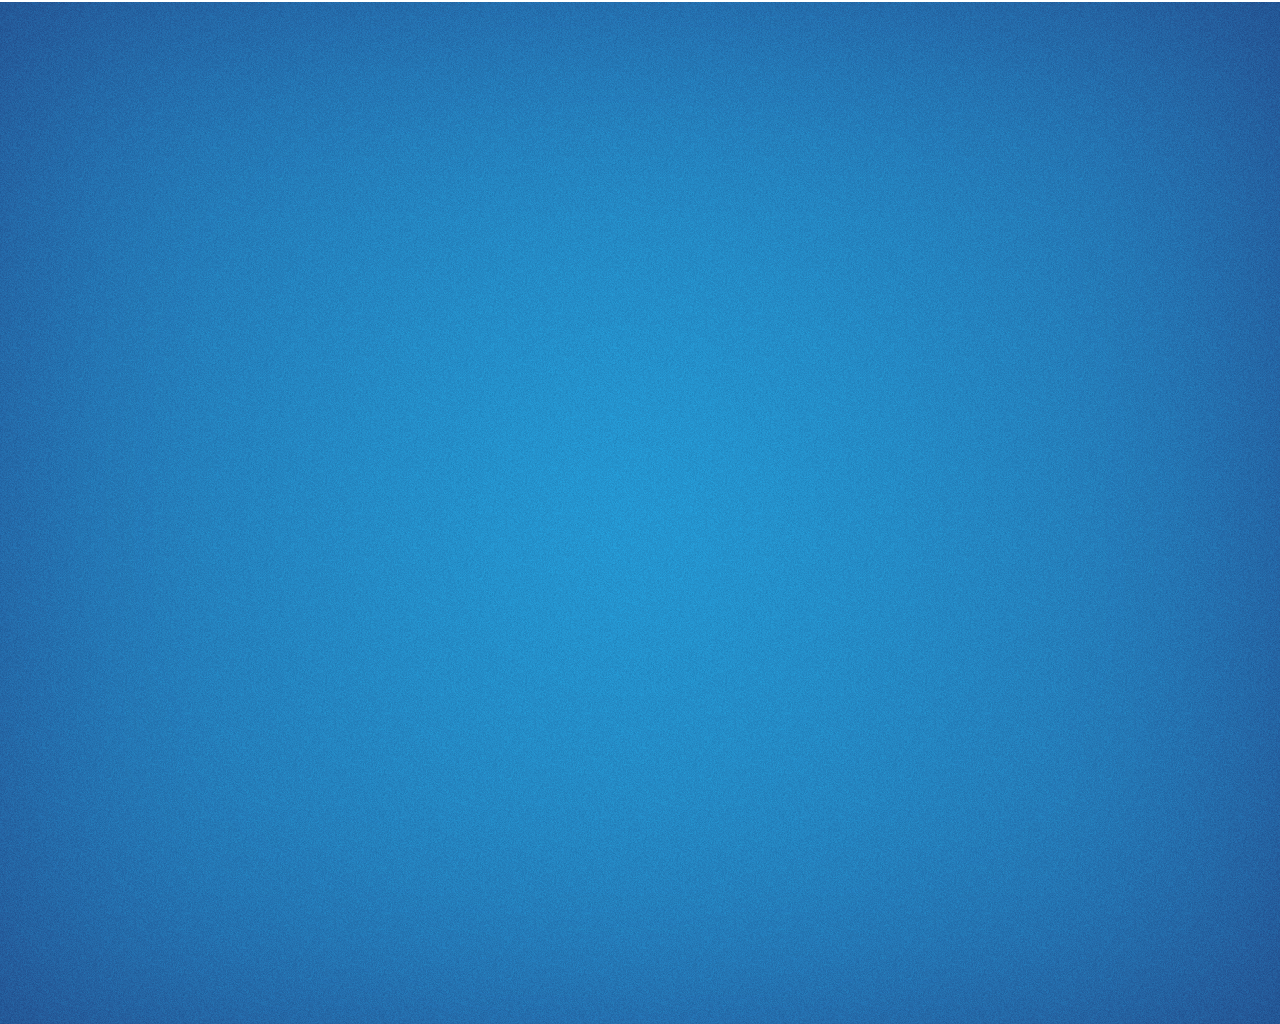
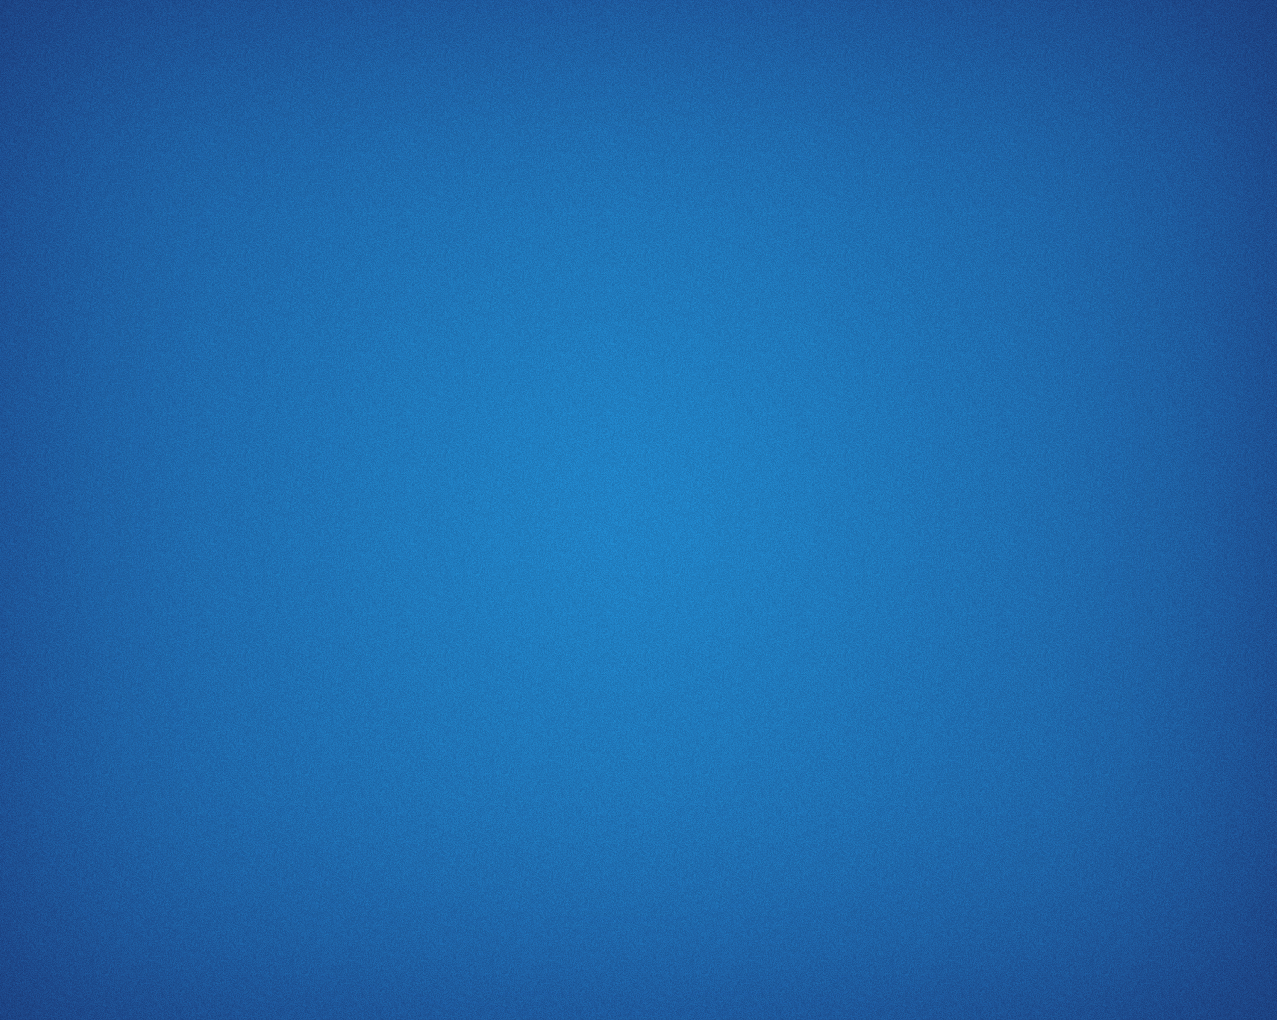
tweak css for PDF printing

Changed region(s): [[0.0, 0.0, 1.0, 1.0]]

diff --git a/css/pdf.css b/css/pdf.css
@@ -194,6 +194,6 @@ ul, ol, div, p {
 	font-size: 16pt !important;
 }
 
-#logo {
-    bottom: -2cm;
+html, .reveal .slides section {
+    background-image: url(theme/mozilla/img/bg-blue-2.png);
 }

diff --git a/css/custom.css b/css/custom.css
@@ -6,6 +6,10 @@ strike {
     color:transparent!important;
 }
 
+.print-pdf strike {
+    color: rgba(255,255,255,0.5)!important;
+}
+
 h3 {
     margin-bottom: 50px !important;
 }
